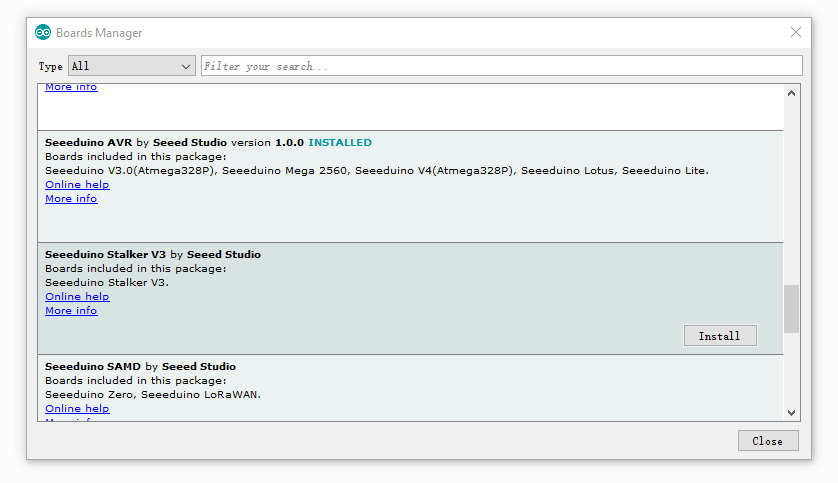
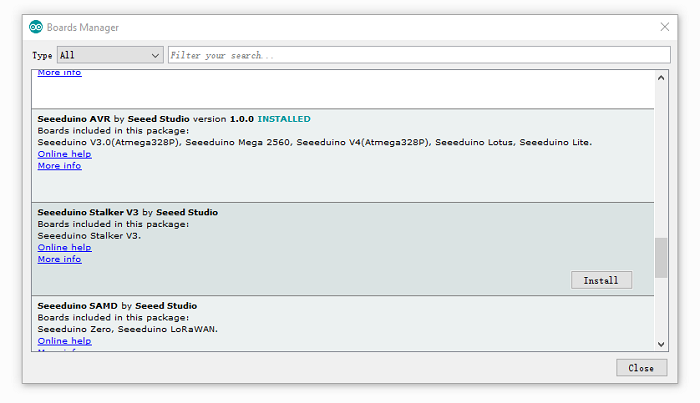
update images

diff --git a/readme.md b/readme.md
@@ -29,11 +29,19 @@ Open your Arudino IDE, click on **File > Preferences**, and copy below url to *A
 https://raw.githubusercontent.com/Seeed-Studio/Seeed_Platform/master/package_seeeduino_boards_index.json
 ```
 
+![](https://raw.githubusercontent.com/Seeed-Studio/Seeed_Platform/master/img/settings.png)
+
 ##Step 3. Board Manager
 
-Click on **Toos > Board > Board Manager**, you will get many board that named with Seeed xxxx, let's take Seeeduino Stalker V3 as example.
+Click on **Toos > Board > Board Manager**.
+
+![](https://raw.githubusercontent.com/Seeed-Studio/Seeed_Platform/master/img/board_manager.png)
+
+You will get many board that named with Seeed xxxx, let's take Seeeduino Stalker V3 as example.
 
 Click Seeeduino Stalker V3 then an **Install** button appear, click on it to finish the step, this process takes about 5 minutes to half an hour, which depend on the speed of your network. 
+
+![](https://raw.githubusercontent.com/Seeed-Studio/Seeed_Platform/master/img/add_board.png)
 
 ##Step 4. Select a board
 
@@ -41,5 +49,6 @@ After Step 3 was successful, a board named Seeeduino Stalker V3 will show up at 
 
 Click on **Tools > Board**, *Seeeduino Stalker V3* is available now. 
 
+![](https://raw.githubusercontent.com/Seeed-Studio/Seeed_Platform/master/img/stalker_board.png)
 
 
